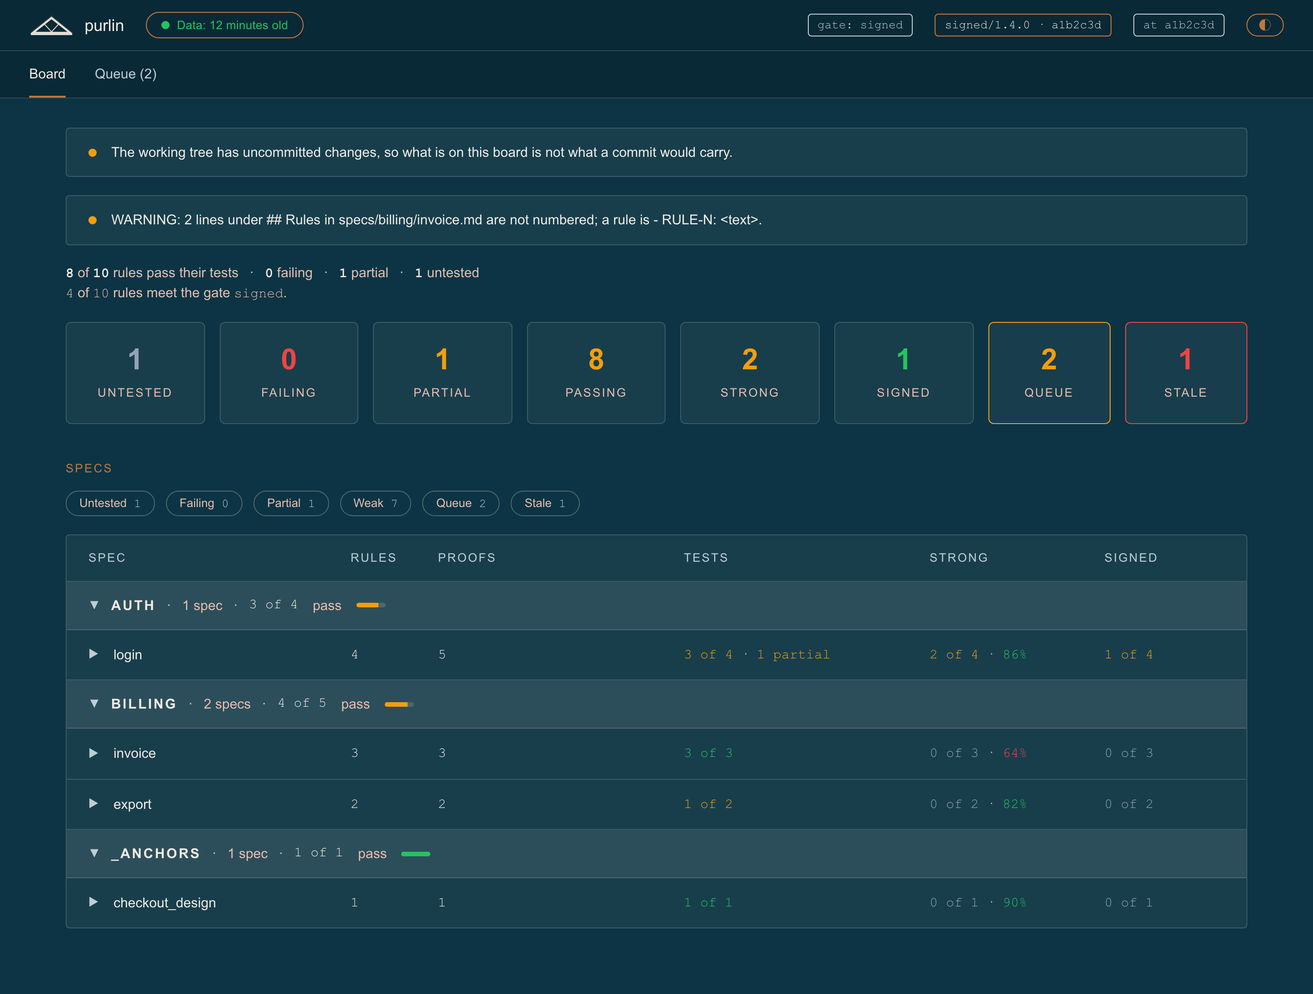
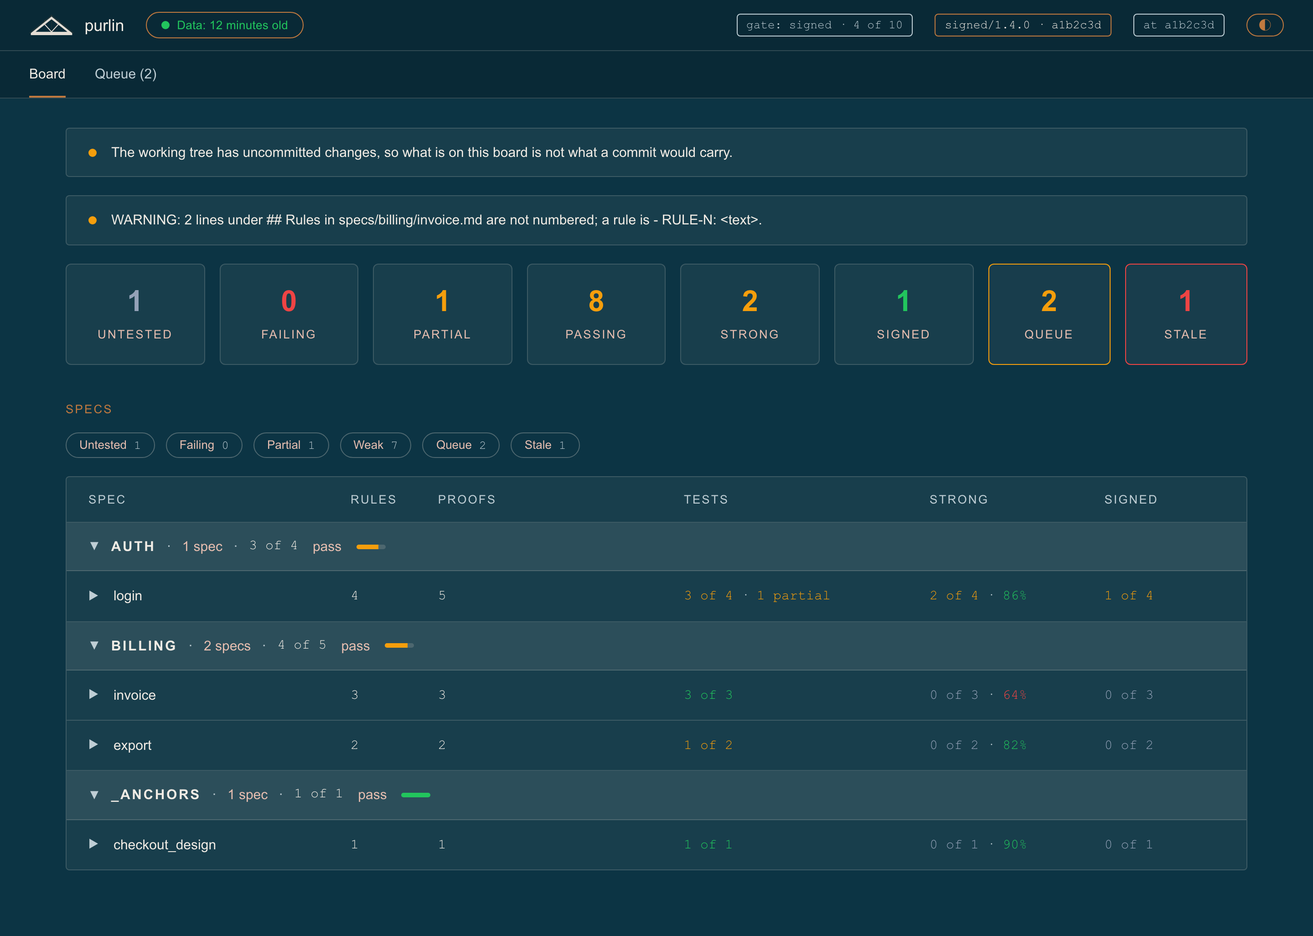
fix(purlin_report): the board opens on the tiles, and the gate chip counts
The two headline lines above the tiles are gone; the tiles carry those
numbers. How many rules meet the gate now sits beside the gate in the top
bar, as `gate: signed · 4 of 10`, on every screen. Screenshots retaken.

Claude-Session: https://claude.ai/code/session_01EY16JPT1BcH9yMJU9cYMBw

diff --git a/scripts/report/purlin-report.html b/scripts/report/purlin-report.html
@@ -37,10 +37,8 @@ button{font-family:inherit}
 .tabs button[aria-current="page"]{color:var(--text-primary);border-bottom-color:var(--accent)}
 .wrap{max-width:1360px;margin:0 auto;padding:var(--space-8)}
 section{margin-bottom:var(--space-10)}
-section.ledger{margin-bottom:var(--space-5)}
 .line{margin:0;font-size:var(--ui-base);font-weight:normal;line-height:inherit;color:var(--text-secondary)}
 .line b{font-family:var(--font-mono);font-weight:var(--weight-bold);color:var(--text-primary)}
-.sep{color:var(--text-muted);padding:0 var(--space-3)}
 .eyebrow{font-size:var(--ui-sm);letter-spacing:var(--tracking-label);text-transform:uppercase;color:var(--text-accent);margin:0 0 var(--space-4)}
 h1{font-size:var(--ui-metric);font-weight:var(--weight-bold);margin:0 0 var(--space-3);line-height:1.1}
 h2{font-size:var(--ui-lg);font-weight:var(--weight-bold);margin:0 0 var(--space-4)}
@@ -382,16 +380,8 @@ function renderBoard() {
     if (!groups[name]) { groups[name] = []; order.push(name); }
     groups[name].push(feature);
   });
-  var summary = DATA.summary || {};
   var floor = columns.reduce(function (sum, c) { return sum + c.floor; }, 0);
-  var head = '<section class="ledger"><h1 class="line"><b>'
-    + reached(summary, 'passed') + '</b> of <b>' + (summary.rules || 0)
-    + '</b> rules pass their tests<span class="sep">·</span><b>'
-    + (summary.failing || 0) + '</b> failing<span class="sep">·</span><b>'
-    + (summary.partial || 0) + '</b> partial<span class="sep">·</span><b>'
-    + (summary.untested || 0) + '</b> untested</h1>'
-    + '<p class="line">' + headline(summary, gateName())
-    + '</p></section><section>' + statStrip() + '</section>';
+  var head = '<section>' + statStrip() + '</section>';
   var table = order.length
     ? '<div class="tbl" style="--cols:' + columns.map(function (c) {
         return 'minmax(' + c.floor + 'px,' + c.width + ')';
@@ -708,12 +698,6 @@ function reached(counted, name) {
       return sum + (counted[key] || 0);
     }, 0);
 }
-function headline(summary, gate) {
-  return '<span class="mono">' + (summary.met || 0)
-    + '</span> of <span class="mono">' + (summary.rules || 0)
-    + '</span> rules meet the gate <span class="mono">' + esc(gate)
-    + '</span>.';
-}
 function tag(text, plain) {
   return '<span class="tag' + (plain ? ' plain' : '') + '">' + esc(text) + '</span>';
 }
@@ -935,6 +919,11 @@ function tagChip() {
       + (found.at ? DOT + found.at : '')]) + '>'
     + esc(found.name + (found.at ? DOT + found.at : '')) + '</span>';
 }
+function gateChip(gate) {
+  var summary = (DATA && DATA.summary) || {};
+  return tag('gate: ' + gate + DOT + (summary.met || 0) + ' of '
+    + (summary.rules || 0), true);
+}
 function topBar() {
   var line = ageLine();
   var gate = DATA && DATA.gate ? DATA.gate.gate : null;
@@ -943,7 +932,7 @@ function topBar() {
     + '<button class="btn fresh" data-act="reload" style="color:var(--state-'
     + line.hue + ')"><span class="dot"></span><span class="age">'
     + esc(line.text) + '</span></button><span class="spacer"></span>'
-    + (gate ? tag('gate: ' + gate, true) : '')
+    + (gate ? gateChip(gate) : '')
     + (level('signed') ? tagChip() : '')
     + (DATA && DATA.commit
        ? '<span class="tag plain" title="The commit this data was generated at">at '

diff --git a/scripts/report/src/board.js b/scripts/report/src/board.js
@@ -213,9 +213,9 @@ function featureRow(feature, columns) {
 /* The band over a category's specs, and what its two numbers are. `MCP (6) 5
    of 113` left the reader to guess both, so the band says them: how many specs
    the category holds, then how many of their rules pass their tests, in the
-   same words and the same mono face the headline uses. The gate ratio is not
-   here: the `Signed` column carries it for each spec and the headline's
-   second line carries it for the project. */
+   same words and the same mono face the tiles use. The gate ratio is not
+   here: the `Signed` column carries it for each spec and the top bar's gate
+   chip carries it for the project. */
 function groupBand(name, features, columns) {
   var open = VIEW.groups[name] !== false;
   var passing = 0;
@@ -248,20 +248,10 @@ function renderBoard() {
     if (!groups[name]) { groups[name] = []; order.push(name); }
     groups[name].push(feature);
   });
-  var summary = DATA.summary || {};
   var floor = columns.reduce(function (sum, c) { return sum + c.floor; }, 0);
-  /* What the board is mainly about is the tests: how many rules pass them,
-     how many fail, how many pass on one platform and not another, and how
-     many nothing has run against. The gate is the second line, because the
-     signed layer is one column's business. */
-  var head = '<section class="ledger"><h1 class="line"><b>'
-    + reached(summary, 'passed') + '</b> of <b>' + (summary.rules || 0)
-    + '</b> rules pass their tests<span class="sep">·</span><b>'
-    + (summary.failing || 0) + '</b> failing<span class="sep">·</span><b>'
-    + (summary.partial || 0) + '</b> partial<span class="sep">·</span><b>'
-    + (summary.untested || 0) + '</b> untested</h1>'
-    + '<p class="line">' + headline(summary, gateName())
-    + '</p></section><section>' + statStrip() + '</section>';
+  /* The board opens on the tiles, which carry every count the tests give;
+     how many rules meet the gate sits beside the gate in the top bar. */
+  var head = '<section>' + statStrip() + '</section>';
   var table = order.length
     ? '<div class="tbl" style="--cols:' + columns.map(function (c) {
         /* minmax sizes every track from these two numbers alone. A bare fr

diff --git a/scripts/report/src/app.js b/scripts/report/src/app.js
@@ -159,18 +159,6 @@ function reached(counted, name) {
     }, 0);
 }
 
-/* The one sentence that says where the project stands against its gate,
-   which is `board.headline`: the board's gate line and the line a status
-   table's summary opens on are the same words, down to the full stop, so a
-   reader who learns one reads the other. The counts and the gate are mono,
-   the way machine text is set everywhere. */
-function headline(summary, gate) {
-  return '<span class="mono">' + (summary.met || 0)
-    + '</span> of <span class="mono">' + (summary.rules || 0)
-    + '</span> rules meet the gate <span class="mono">' + esc(gate)
-    + '</span>.';
-}
-
 function tag(text, plain) {
   return '<span class="tag' + (plain ? ' plain' : '') + '">' + esc(text) + '</span>';
 }
@@ -483,6 +471,15 @@ function tagChip() {
     + esc(found.name + (found.at ? DOT + found.at : '')) + '</span>';
 }
 
+/* The gate, and how many rules meet it, as `gate: signed · 553 of 555`: the
+   one place on the page that says where the project stands against its gate,
+   on every screen. */
+function gateChip(gate) {
+  var summary = (DATA && DATA.summary) || {};
+  return tag('gate: ' + gate + DOT + (summary.met || 0) + ' of '
+    + (summary.rules || 0), true);
+}
+
 function topBar() {
   var line = ageLine();
   var gate = DATA && DATA.gate ? DATA.gate.gate : null;
@@ -491,7 +488,7 @@ function topBar() {
     + '<button class="btn fresh" data-act="reload" style="color:var(--state-'
     + line.hue + ')"><span class="dot"></span><span class="age">'
     + esc(line.text) + '</span></button><span class="spacer"></span>'
-    + (gate ? tag('gate: ' + gate, true) : '')
+    + (gate ? gateChip(gate) : '')
     + (level('signed') ? tagChip() : '')
     + (DATA && DATA.commit
        ? '<span class="tag plain" title="The commit this data was generated at">at '

diff --git a/scripts/report/src/styles.css b/scripts/report/src/styles.css
@@ -17,10 +17,8 @@ button{font-family:inherit}
 .tabs button[aria-current="page"]{color:var(--text-primary);border-bottom-color:var(--accent)}
 .wrap{max-width:1360px;margin:0 auto;padding:var(--space-8)}
 section{margin-bottom:var(--space-10)}
-section.ledger{margin-bottom:var(--space-5)}
 .line{margin:0;font-size:var(--ui-base);font-weight:normal;line-height:inherit;color:var(--text-secondary)}
 .line b{font-family:var(--font-mono);font-weight:var(--weight-bold);color:var(--text-primary)}
-.sep{color:var(--text-muted);padding:0 var(--space-3)}
 
 /* --- shared marks ---------------------------------------------------- */
 .eyebrow{font-size:var(--ui-sm);letter-spacing:var(--tracking-label);text-transform:uppercase;color:var(--text-accent);margin:0 0 var(--space-4)}

diff --git a/dev/test_purlin_report.py b/dev/test_purlin_report.py
@@ -309,24 +309,31 @@ def test_affordances_are_unicode_glyphs_not_an_icon_set(page_text):
 def test_the_board_renders_for_each_process(browser, tmp_path, process):
     payload = payload_named(process)
     summary = payload['summary']
+    gate = payload['gate']['gate']
     page = open_board(browser, tmp_path, payload)
-    heading = page.inner_text('h1')
-    assert '%d of %d rules pass their tests' % (
-        reached(summary, 'passed'), summary['rules']) in heading
-    assert '%d failing' % summary['failing'] in heading
-    assert '%d partial' % summary['partial'] in heading
-    assert '%d untested' % summary['untested'] in heading
-    # The second line is `board.headline`, which the status table's summary
-    # opens on: the same sentence, down to the full stop.
-    assert '%d of %d rules meet the gate %s.' % (
-        summary['met'], summary['rules'],
-        payload['gate']['gate']) in page.inner_text('.ledger')
+    bar = page.inner_text('.topbar')
+    assert 'gate: %s \u00b7 %d of %d' % (
+        gate, summary['met'], summary['rules']) in bar, bar
+    assert 'Data:' in bar
+    assert page.query_selector('.strip') is not None
+    first = page.evaluate(
+        "() => { const s = document.querySelector('.strip');"
+        " const sec = s.closest('section');"
+        " return sec.parentElement.querySelector('section') === sec; }")
+    assert first, 'the board does not open on the tiles'
+    text = page.inner_text('body')
+    assert 'rules pass their tests' not in text
+    assert 'rules meet the gate' not in text
     assert len(page.query_selector_all('.tile')) == TILES[process]
-    assert 'gate: ' + payload['gate']['gate'] in page.inner_text('.topbar')
-    assert 'Data:' in page.inner_text('.topbar')
     assert set(feature_names(page)) == set(
         f['name'] for f in payload['features'])
     page.close()
+    if process == 'regulated':
+        payload['summary']['met'] = 3
+        page = open_board(browser, tmp_path, payload)
+        assert 'gate: signed \u00b7 3 of %d' % summary['rules'] in \
+            page.inner_text('.topbar')
+        page.close()
 
 
 BASE_COLUMNS = ['Spec', 'Rules', 'Proofs', 'Tests']

diff --git a/dev/test_purlin_report_board_layout.py b/dev/test_purlin_report_board_layout.py
@@ -61,7 +61,10 @@ def test_the_stale_card_carries_the_count(browser, tmp_path):  # noqa: F811
         " s.remove(); return v; }", fail)
     assert colour == probe, (colour, probe)
     assert len(page.query_selector_all('.tile')) == 6
-    assert '2 failing' in page.inner_text('h1')
+    failing = page.eval_on_selector_all(
+        '.tile', "els => els.map(e => [e.querySelector('.tile-l').textContent,"
+        " e.querySelector('.tile-v').textContent])")
+    assert dict(failing)['Failing'] == '2', failing
     # The stale count is the flag card's and the `Signed` hover's; the cell
     # states the share alone.
     signed = count_cells(page)['login']['Signed']

diff --git a/specs/dashboard/purlin_report.md b/specs/dashboard/purlin_report.md
@@ -21,7 +21,7 @@
 - RULE-4: The page carries no shadow, no gradient and no emoji [level: passed]
 - RULE-5: The page asks nothing of anything outside itself: no stylesheet link, no style import, no fetch, and no source or link address on another host [level: passed]
 - RULE-6: Affordances are unicode glyphs and the page draws no icon set [level: passed]
-- RULE-7: The board heading's first line states how many rules pass their tests out of how many there are, then the failing count, the partial count and the untested count; its second line, in the secondary tone, reads the sentence `scripts/mcp/purlin/board.py` renders for a status table's summary, `<met> of <rules> rules meet the gate <gate>.`, word for word and with its full stop. The top bar states the gate and how old the data is, and every spec in the payload has a row [level: passed]
+- RULE-7: The board opens on the strip of tiles. The top bar states the gate and how many rules meet it, as `gate: <gate> · <met> of <rules>` from the payload's summary, and how old the data is, and every spec in the payload has a row [level: passed]
 - RULE-8: The strip above the table carries one tile per bucket the gate reaches, `Untested`, `Failing`, `Partial` and `Passing` at every gate, `Strong` at `strong` and `Signed` at `signed`. The three level tiles are cumulative: each counts the rules that reached its level or any level above it, added up in the page from the payload's exclusive buckets; `Untested`, `Failing` and `Partial` count their own bucket alone. Every label is set in capitals, every tile carries a hover, and at `signed` a `Queue` flag card and a `Stale` flag card sit beside the tiles, in that order [level: passed]
 - RULE-9: A column exists only where the gate reaches it, and the board has exactly these: `Spec`, `Rules` and `Tests` at every gate, `Proofs` between `Rules` and `Tests` at `strong` and above and at `passed` only where the project writes at least one proof line, `Strong` at `strong` and above, `Signed` at `signed`, in that order; every when, who and platform detail is in a cell's hover. Every count cell names what it counts beside the number, one labelled part per word in that word's tone: the first part is always drawn, and a later part only where it is above zero. `Proofs` reads the rollup's proof total, then the rollup's count of proofs no test runs as `<k> without a test` in the warn tone, a `@manual` proof counting as no gap; `Tests` reads `<passed> of <rules>`, then `<k> partial` in the warn tone and `<k> failing` in the fail tone; `Strong` reads `<n> of <rules>` and the audit's test strength, `n/a` where nothing measured it; `Signed` reads `<n> of <rules>` [level: passed]
 - RULE-10: A spec row opens to the rules it owns and closes again on the next click [level: passed]
@@ -45,7 +45,7 @@
 - RULE-29: The age in the top bar recomputes every 60 seconds from the stamp the payload already carries, reading the data file zero further times [level: passed]
 - RULE-30: A Queue row states the rule's level, what it needs, `hand check` or `signature`, with the queue row's word and reasons in that cell's hover, and the command the row carries [level: passed]
 - RULE-31: The rule screen's passed cell row carries one box per operating system a counting run covered, labelled by that system's first three letters, in the pass tone where the rule passed there, the fail tone where it failed and grey otherwise, each carrying that system's word, the source of its newest run and that run's age as a hover. Its last run line reads the newest run's source and age, linked to the evidence file on the git host, or `—` where the spec has no evidence. The board draws no such box [level: passed]
-- RULE-32: At the `signed` gate the board shows two flag cards beside the six tiles: `Queue`, carrying the summary's queue count in the warn tone when it is above zero and a hover naming each spec with how many of its rules are waiting, and `Stale`, carrying the summary's stale count in the fail tone when it is above zero. The heading line names the summary's failing count as `<N> failing`. The `Signed` column states no stale count of its own; its hover carries the spec's [level: passed]
+- RULE-32: At the `signed` gate the board shows two flag cards beside the six tiles: `Queue`, carrying the summary's queue count in the warn tone when it is above zero and a hover naming each spec with how many of its rules are waiting, and `Stale`, carrying the summary's stale count in the fail tone when it is above zero. The `Signed` column states no stale count of its own; its hover carries the spec's [level: passed]
 - RULE-33: Every column heading of the spec table starts where its column's cells start in every row, so a wide cell never pushes its row's columns out of line with the headings [level: passed]
 - RULE-34: No text the board draws is set smaller than 13 pixels, in either theme [level: passed]
 - RULE-35: Every column of the spec table holds a minimum width, and under the sum of those minima the table scrolls sideways rather than squeezing a column past one, so a heading and its cells stay inside their own column at every window width. Every heading and every cell starts at its column's left edge; nothing on the table is aligned right, because two bare number columns twelve pixels apart read as one number. Those minima sum to less than a 1024-wide window gives the table, so at 1024 every column the gate reaches is on screen with no sideways scroll, and at 1280 and above every count cell holds its first two parts on one line [level: passed]
@@ -66,7 +66,7 @@
 - PROOF-4 (RULE-4): Run the build and verify the page outside the token block contains no `box-shadow`, that the whole page contains no `gradient`, and that no character of it falls in the emoji ranges
 - PROOF-5 (RULE-5): Run the build and verify the page contains no `<link` element, no `@import`, no `fetch(`, and no `src` or `href` beginning `https:` or `http:`
 - PROOF-6 (RULE-6): Run the build and verify the page contains the glyphs `▶`, `▼` and `←`, that it holds zero `<svg` elements, and that the word `icon` appears nowhere in it at any casing
-- PROOF-7 (RULE-7): Open the board over `file://` with the solo, team and regulated fixture beside it in turn; verify the first heading line reads `<passing> of <rules> rules pass their tests`, `<failing> failing`, `<partial> partial` and `<untested> untested` from that payload's summary, that the second line reads `<met> of <rules> rules meet the gate <gate>.`, that the top bar reads `gate: ` with that payload's gate and a `Data:` age, that 4 tiles are on screen at `passed`, 5 at `strong` and 6 at `signed`, and that the spec names listed are exactly the payload's
+- PROOF-7 (RULE-7): Open the board over `file://` with the solo, team and regulated fixture beside it in turn; verify the top bar reads `gate: <gate> · <met> of <rules>` from that payload's gate and summary and a `Data:` age, that the board's first section holds the tiles, that no text on the board reads `rules pass their tests` or `rules meet the gate`, that 4 tiles are on screen at `passed`, 5 at `strong` and 6 at `signed`, and that the spec names listed are exactly the payload's. With the regulated summary's met count set to 3, the top bar reads `gate: signed · 3 of <rules>`
 - PROOF-8 (RULE-8): Open the board with the solo fixture and verify the tile labels read `Untested`, `Failing`, `Partial`, `Passing` in that order, that they are set in capitals, and that 0 flag cards are on screen; open the team fixture and verify they read `Untested`, `Failing`, `Partial`, `Passing`, `Strong` with 0 flag cards; open the regulated fixture and verify they read `Untested`, `Failing`, `Partial`, `Passing`, `Strong`, `Signed`, that the six counts read 1, 0, 1, 8, 2 and 1, which is each level's bucket added to every bucket above it and each other bucket alone, and that the two flag cards read `Queue` and `Stale` with the summary's queue and stale counts
 - PROOF-9 (RULE-9): A project at the gate `passed` that writes proof lines shows the column headings `Spec`, `Rules`, `Proofs`, `Tests`, exactly; the same project with every proof line taken out, each test marked with its rule's own id, shows exactly `Spec`, `Rules`, `Tests`. A project at `strong` shows those four and then `Strong`, and still shows `Proofs` third with every proof line taken out. A project at `signed` shows those five and then `Signed`, 6 headings in all
 - PROOF-10 (RULE-10): Open the board with the regulated fixture; verify no rule id is on screen, click the login row and verify the ids read `RULE-1`, `RULE-2`, `RULE-3`, `RULE-4` and that one of them reads `SIGNED`, then click it again and verify no rule id remains
@@ -92,7 +92,7 @@
 - PROOF-31 (RULE-30): Open the regulated fixture and open the Queue tab; verify invoice `RULE-3` reads the level `signed`, the need `hand check`, the command `purlin:sign invoice RULE-3 --note "<what you saw>"` and a need hover opening `manual test`, that checkout_design `RULE-1`, whose audit could not decide, is not in the queue, and that login `RULE-2` reads `signature` with the hover `stale · hashes changed after the signature`
 - PROOF-32 (RULE-31): Open the board with the regulated fixture, whose login `RULE-4` passed on `linux` and failed on `windows`, and verify 0 boxes are on the board; open login `RULE-4` and verify its passed row carries 2 boxes reading `lin` and `win`, that `lin` is the colour `--state-fail` resolves to 0 times and `--state-pass` once, that `win` is the colour `--state-fail` resolves to, that the `win` box's hover reads `windows · failed · ci` and an age, and that the last run line reads `ci` with an age; open invoice `RULE-1`, whose platforms hold `linux` and `macos`, and verify its 2 boxes read `lin` and `mac`, then open invoice `RULE-3`, whose `@manual` proof ran nowhere, and verify it carries 0 boxes
 - PROOF-33 (RULE-33): Open the board with the regulated fixture at widths 1920, 1440, 1280 and 1024 with every group open; verify that for each spec row, each cell's left edge is within 1 pixel of its heading's left edge
-- PROOF-34 (RULE-32): Open the board with the regulated fixture after setting its stale count to 3 and its failing count to 2; verify the `Stale` card reads 3 in the fail tone's colour, 6 tiles remain, the heading carries `2 failing`, and login's `Signed` cell reads `1 of 4` with the word `stale` absent from its text; open it with a stale count of 0 and verify the card reads 0 without the fail tone
+- PROOF-34 (RULE-32): Open the board with the regulated fixture after setting its stale count to 3 and its failing count to 2; verify the `Stale` card reads 3 in the fail tone's colour, 6 tiles remain, the `Failing` tile reads 2, and login's `Signed` cell reads `1 of 4` with the word `stale` absent from its text; open it with a stale count of 0 and verify the card reads 0 without the fail tone
 - PROOF-35 (RULE-13): Open the board with the solo fixture and verify the filters offered read `Untested`, `Failing` and `Partial`; open the team fixture and verify `Weak` and `Queue` follow them; open the regulated fixture and verify `Stale` follows those, 6 in all, and that their counts read 1, 0, 1, 7, 2 and 1
 - PROOF-36 (RULE-18): Open the regulated fixture and open the Queue tab; verify its heading row reads `Spec`, `Rule`, `What it claims`, `Level`, `Needs`, `Command`
 - PROOF-37 (RULE-18): Open the solo fixture, whose gate is `passed`, and verify the only tab on screen reads `Board`; open the team fixture, whose gate is `strong`, and verify the tabs read `Board` and `Queue (0)`

diff --git a/docs/dashboard.md b/docs/dashboard.md
@@ -25,32 +25,25 @@ you reloading anything.
 ## The top bar
 
 Every screen carries the same top bar: the logo; how old the data is, as `Data: 12 minutes
-old`, which is a button that reloads the page; the gate, as `gate: signed`; at `signed`, the
-signed tag this commit carries, as `signed/1.4.0 · a1b2c3d`, or `no signed tag`; the
-commit the data was built from, as `at a1b2c3d`; and the theme toggle. The age recomputes every
-60 seconds, and from 90 minutes on it adds `— run purlin:status to refresh`.
+old`, which is a button that reloads the page; the gate and how many rules meet it, as
+`gate: signed · 4 of 10`; at `signed`, the signed tag this commit carries, as
+`signed/1.4.0 · a1b2c3d`, or `no signed tag`; the commit the data was built from, as
+`at a1b2c3d`; and the theme toggle. The age recomputes every 60 seconds, and from 90 minutes on
+it adds `— run purlin:status to refresh`.
 
 Below it are the tabs: `Board`, then `Queue (n)` at `strong` and above, and the open rule, such
 as `login RULE-1`, when there is one.
 
 ## Board
 
-![The Board at the gate signed: two warnings, the two headline lines, six tiles with the Queue and Stale cards, the six filters, and four specs under their categories with all six columns](images/dashboard-board.png)
+![The Board at the gate signed: two warnings, six tiles with the Queue and Stale cards, the six filters, and four specs under their categories with all six columns](images/dashboard-board.png)
 
-Warnings sit above the headline, one per line: `The working tree has uncommitted changes, so
+Warnings sit above the tiles, one per line: `The working tree has uncommitted changes, so
 what is on this board is not what a commit would carry.`, and any line the spec parser could
-not read. The headline is two lines:
-
-```
-8 of 10 rules pass their tests · 0 failing · 1 partial · 1 untested
-4 of 10 rules meet the gate signed.
-```
-
-The second line is the sentence `purlin:status` opens its summary on. A rule meets the gate
-when its passed cell is met, its strong cell is met if its level is `strong` or `signed`, and
-its signed cell is met if its level is `signed`. The gate decides how many cells a rule has, so
-it also decides how much of this page exists: a tile, a column or a filter above the gate is
-absent, not empty.
+not read. The board then opens on the tiles. A rule meets the gate when its passed cell is met,
+its strong cell is met if its level is `strong` or `signed`, and its signed cell is met if its
+level is `signed`. The gate decides how many cells a rule has, so it also decides how much of
+this page exists: a tile, a column or a filter above the gate is absent, not empty.
 
 **Tiles.** At `passed` there are four: `Untested`, `Failing`, `Partial` and `Passing`. `Strong`
 joins at `strong` and `Signed` at `signed`. `Passing`, `Strong` and `Signed` count levels
